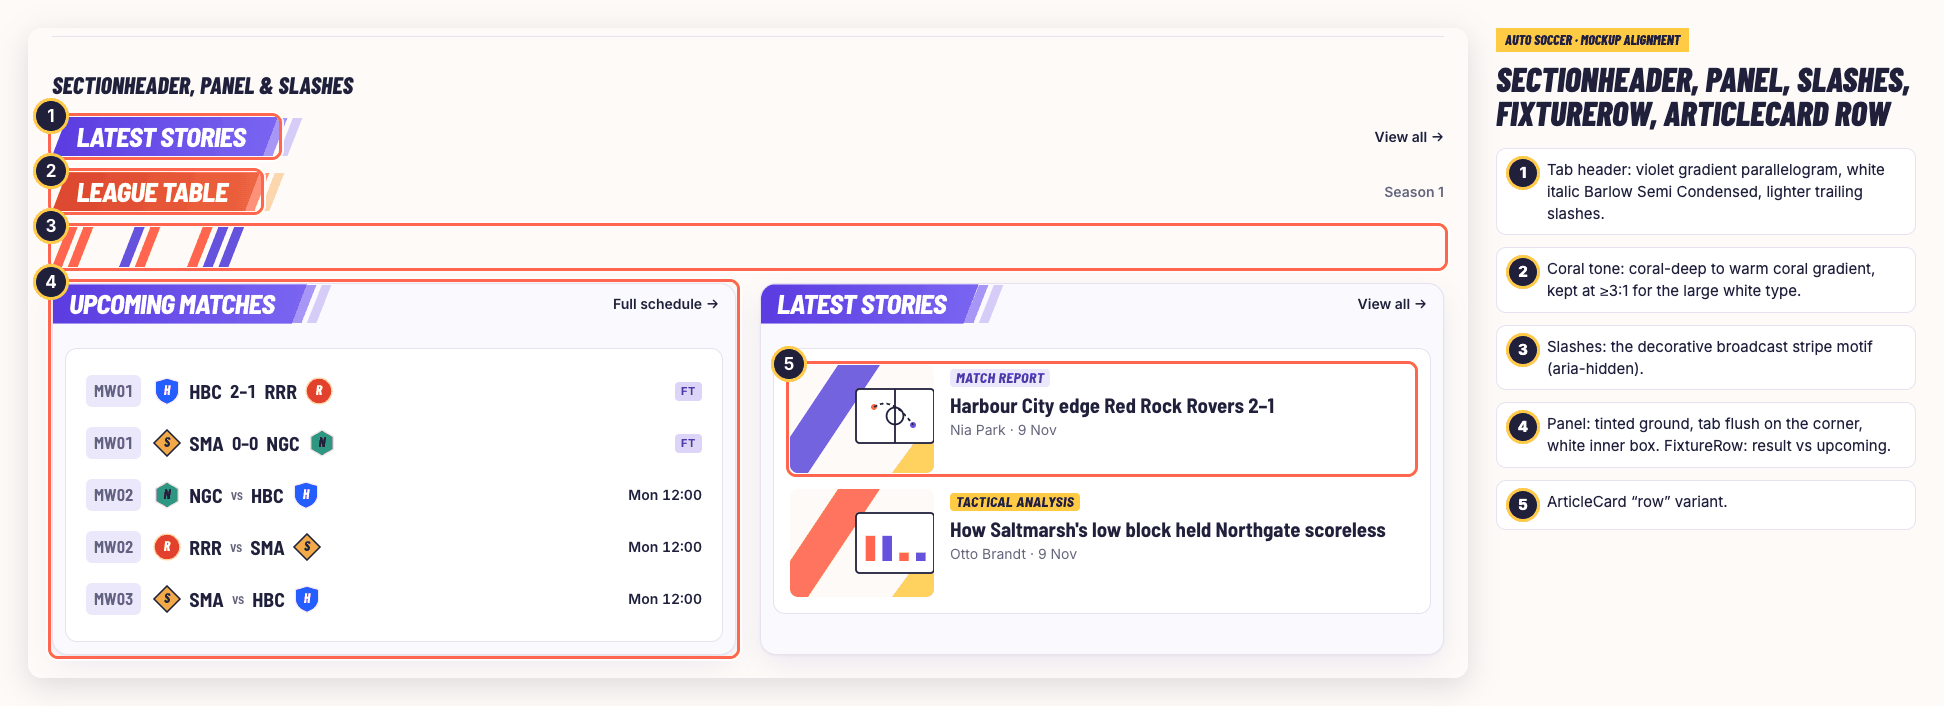
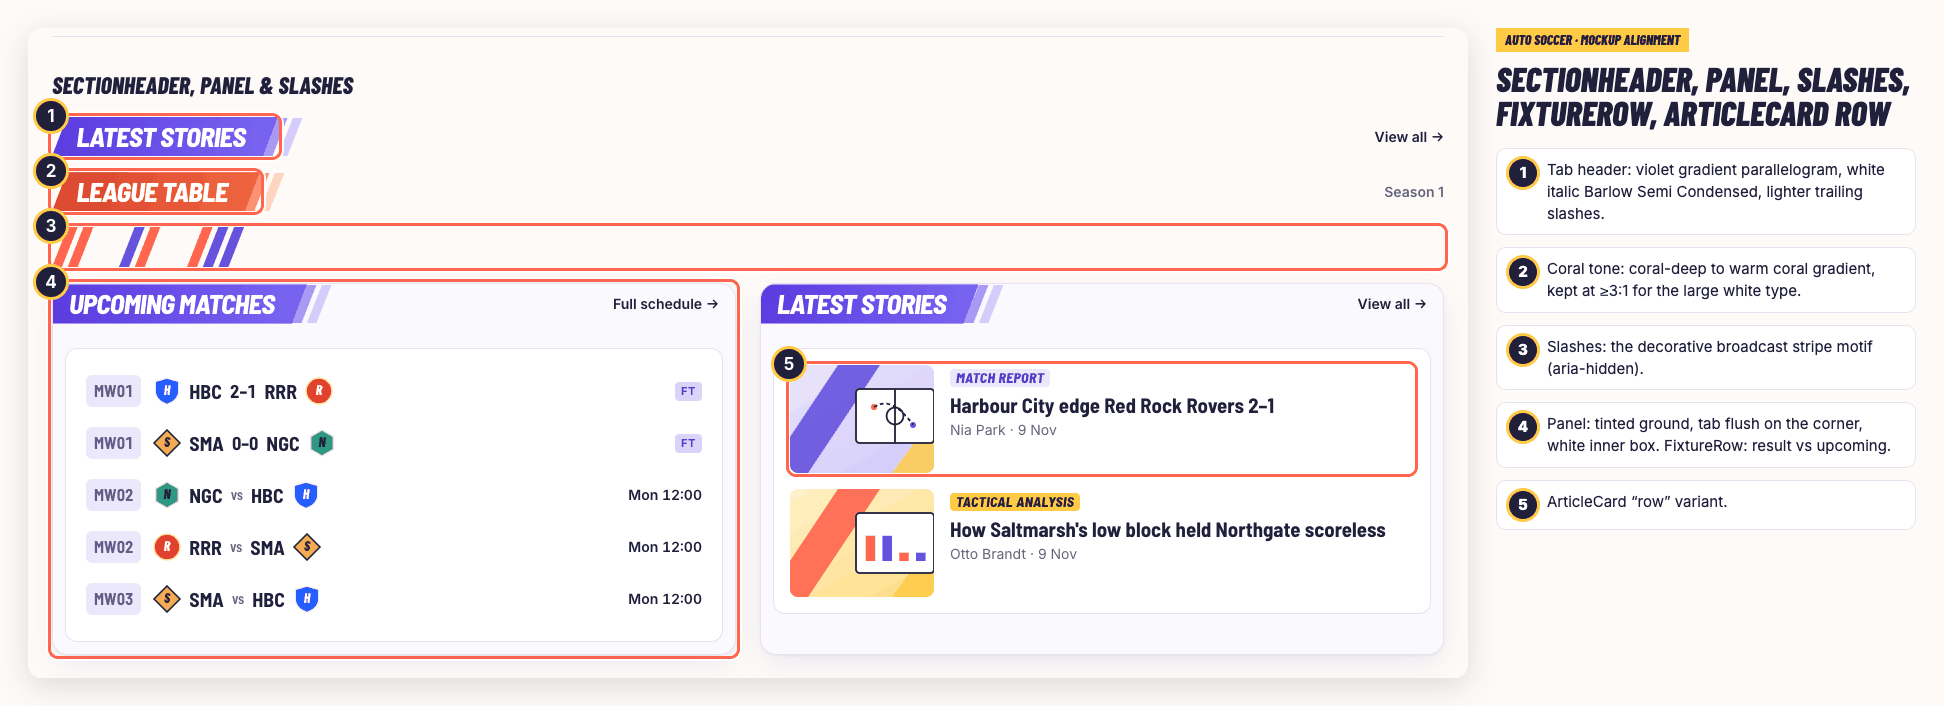
Design: tinted gradient backdrops for article thumbnails
Lilac, peach or butter (chosen per story) instead of the page canvas, as in
the reference thumbnails. Screenshots and annotated sheets regenerated.

Claude-Session: https://claude.ai/code/session_01QXn32UZgK3aJXuzTVZrKwM

Changed region(s): [[0.4012, 0.4986, 0.5247, 0.8725]]

diff --git a/apps/web/app/components/ArticleThumb.tsx b/apps/web/app/components/ArticleThumb.tsx
@@ -1,7 +1,16 @@
+import { useId } from "react";
+
 /**
  * Flat geometric editorial illustration in the site palette, chosen deterministically from
  * a seed string. Tactics board / chart / supporters motifs — never fake match footage.
  */
+/** Tinted backdrops (light → deeper), as in the reference thumbnails: lilac, peach, butter. */
+const BACKDROPS = [
+  ["#ece8fb", "#cfc6fa"],
+  ["#ffe7dc", "#ffc4ad"],
+  ["#fff3cc", "#ffdc80"],
+] as const;
+
 const P = ["var(--color-coral)", "var(--color-violet)", "var(--color-yellow)", "var(--color-match-blue)"];
 
 function hash(s: string) {
@@ -15,6 +24,8 @@ export function ArticleThumb({ seed, kind, className = "" }: { seed: string; kin
   const a = P[h % 4]!;
   const b = P[(h >>> 3) % 4 === h % 4 ? ((h % 4) + 1) % 4 : (h >>> 3) % 4]!;
   const motif = kind === "analysis" ? "chart" : kind === "column" ? "crowd" : "board";
+  const gid = useId();
+  const [light, deep] = BACKDROPS[(h >>> 7) % BACKDROPS.length]!;
   return (
     <svg
       viewBox="0 0 320 180"
@@ -22,7 +33,13 @@ export function ArticleThumb({ seed, kind, className = "" }: { seed: string; kin
       aria-hidden
       preserveAspectRatio="xMidYMid slice"
     >
-      <rect width="320" height="180" fill="var(--color-canvas)" />
+      <defs>
+        <linearGradient id={gid} x1="0" y1="0" x2="1" y2="1">
+          <stop offset="0" stopColor={light} />
+          <stop offset="1" stopColor={deep} />
+        </linearGradient>
+      </defs>
+      <rect width="320" height="180" fill={`url(#${gid})`} />
       <path d="M0 180 L120 0 H190 L70 180 Z" fill={a} opacity="0.9" />
       <path d="M210 180 L320 30 V180 Z" fill={b} opacity="0.85" />
       {motif === "board" && (
